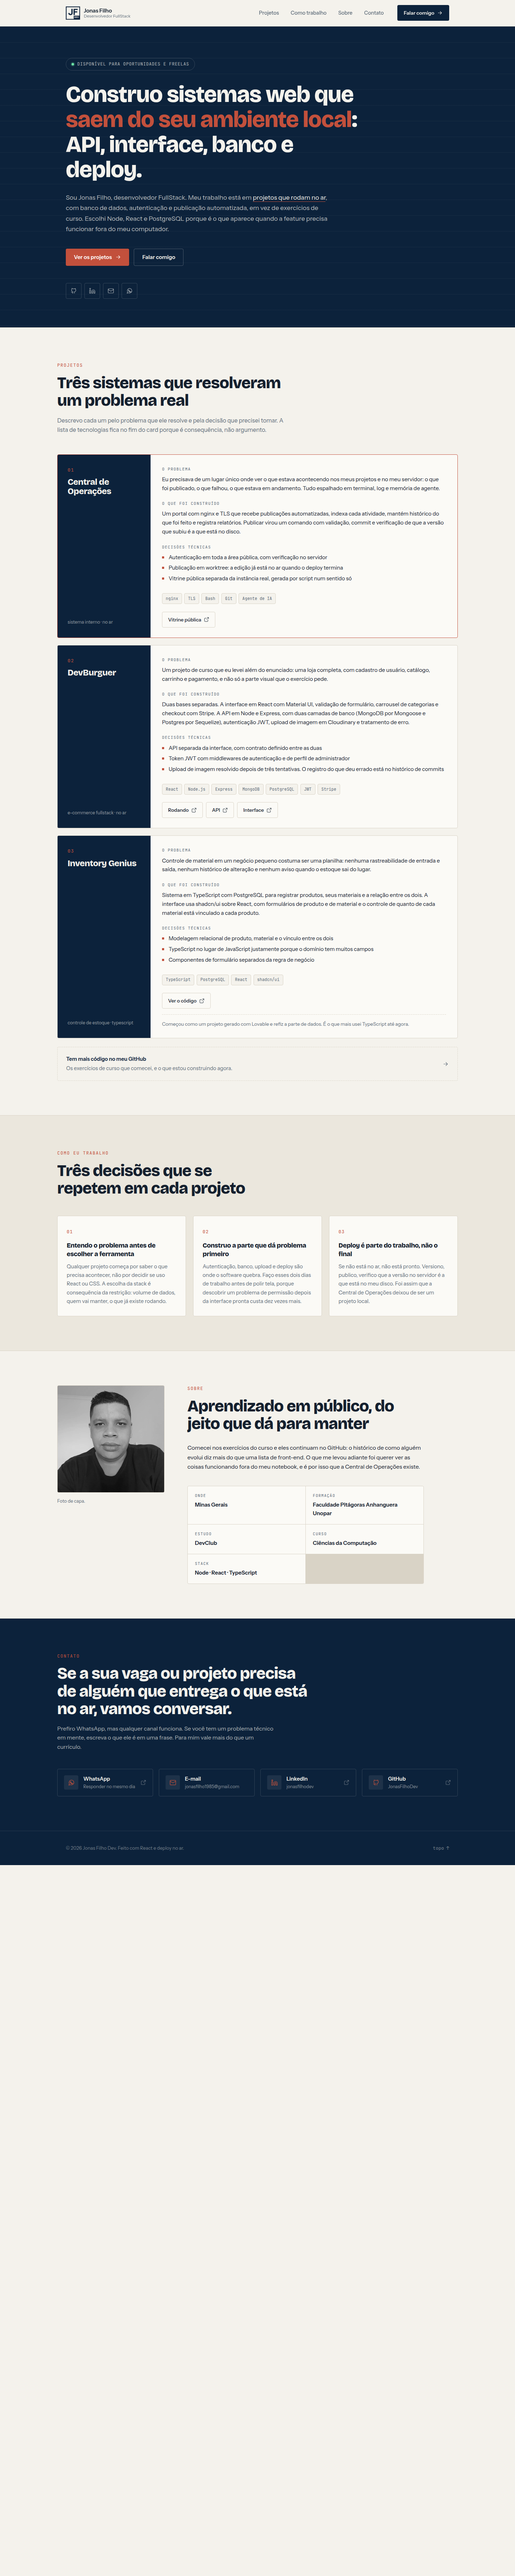
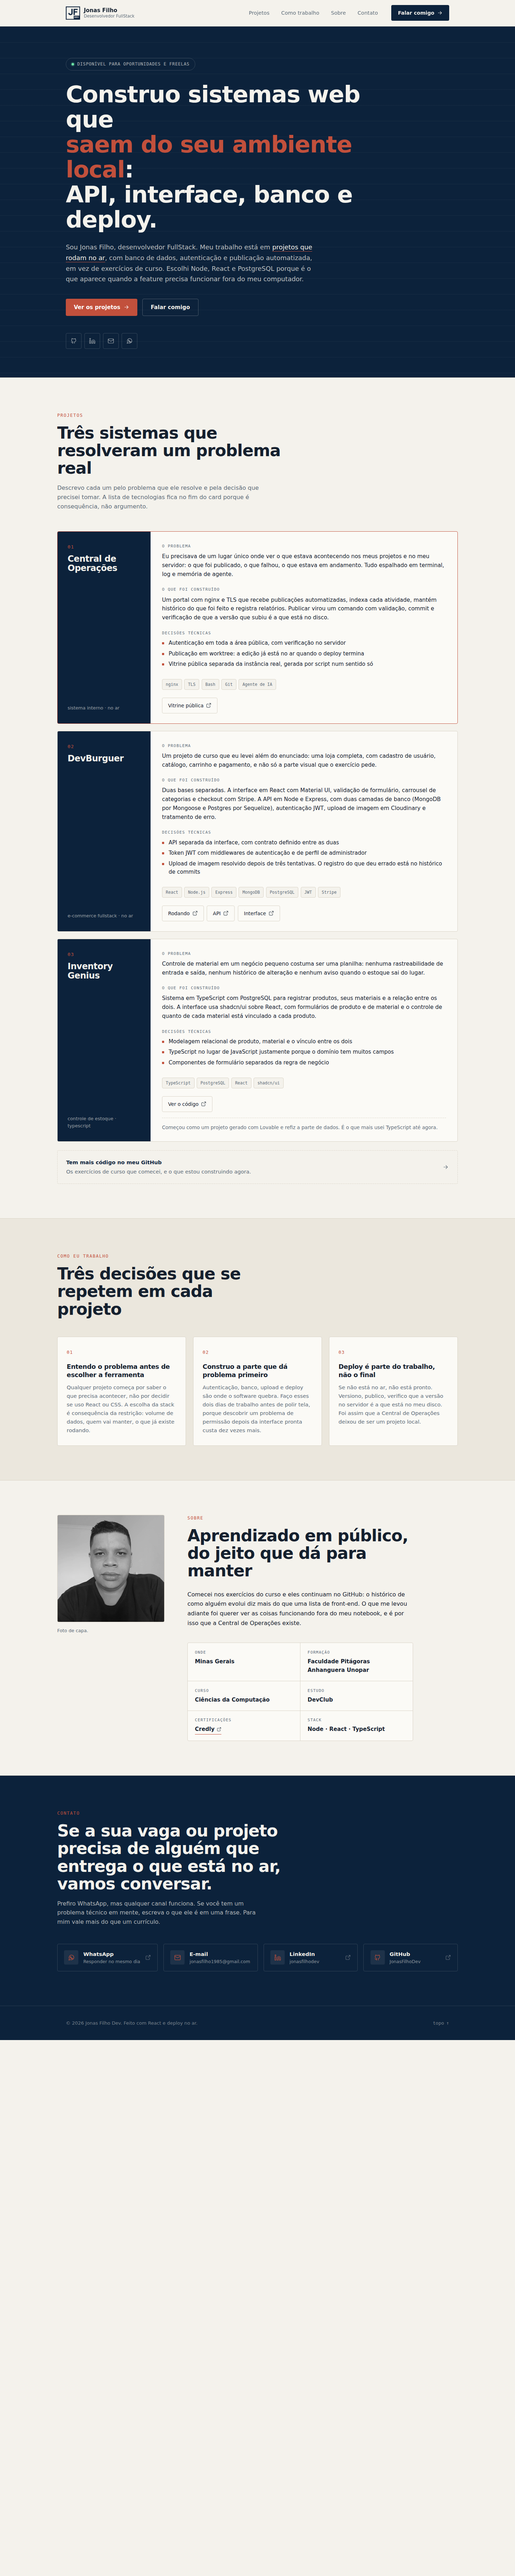
Preenche a celula vazia da grade e remove o AdSense
- Sobre: a grade tinha 5 fatos em 2 colunas, a 6a celula ficava so com a borda.
  Entra Certificacoes (Credly) como link, fechando 3 linhas por 2 colunas
- AdSense removido por decisao do Jonas: era desnecessario e trazia exposicao
  sob LGPD sem banner de consentimento
- Inventory Genius: repositorio publico, link conferido (200)

Changed region(s): [[0.0, 0.0312, 1.0, 0.8125]]

diff --git a/src/components/Sobre/Sobre.jsx b/src/components/Sobre/Sobre.jsx
@@ -1,10 +1,16 @@
+import { Icon } from '../Icon'
 import styles from './Sobre.module.css'
 
 const fatos = [
   { k: 'Onde', v: 'Minas Gerais' },
   { k: 'Formação', v: 'Faculdade Pitágoras Anhanguera Unopar' },
-  { k: 'Estudo', v: 'DevClub' },
   { k: 'Curso', v: 'Ciências da Computação' },
+  { k: 'Estudo', v: 'DevClub' },
+  {
+    k: 'Certificações',
+    v: 'Credly',
+    href: 'https://www.credly.com/users/jonas-filho.02d00765',
+  },
   { k: 'Stack', v: 'Node · React · TypeScript' },
 ]
 
@@ -38,7 +44,21 @@ export default function Sobre() {
             {fatos.map((f) => (
               <div key={f.k} className={styles.fact}>
                 <dt>{f.k}</dt>
-                <dd>{f.v}</dd>
+                <dd>
+                  {f.href ? (
+                    <a
+                      className={styles.factLink}
+                      href={f.href}
+                      target="_blank"
+                      rel="noreferrer"
+                    >
+                      {f.v}
+                      <Icon name="external" size={13} />
+                    </a>
+                  ) : (
+                    f.v
+                  )}
+                </dd>
               </div>
             ))}
           </dl>

diff --git a/index.html b/index.html
@@ -70,13 +70,5 @@
   <body>
     <div id="root"></div>
     <script type="module" src="/src/main.jsx"></script>
-
-    <!--
-      AdSense: o script foi removido do <head> de propósito (carregava bloqueante
-      antes da página renderizar). Antes de publicar a v2 é preciso decidir entre
-      banner de consentimento LGPD ou ads não personalizados — publicar como está
-      hoje é exposição real e pode reprovar na política do AdSense.
-      Deixei o ponto de inserção abaixo.
-    -->
   </body>
 </html>

diff --git a/src/components/Sobre/Sobre.module.css b/src/components/Sobre/Sobre.module.css
@@ -104,6 +104,19 @@
   font-weight: 600;
 }
 
+.factLink {
+  display: inline-flex;
+  align-items: center;
+  gap: 0.35rem;
+  border-bottom: 1px solid var(--accent);
+  padding-bottom: 1px;
+  transition: color 0.15s;
+}
+
+.factLink:hover {
+  color: var(--accent);
+}
+
 @media (max-width: 860px) {
   .section {
     padding: 4.25rem 1.25rem;
